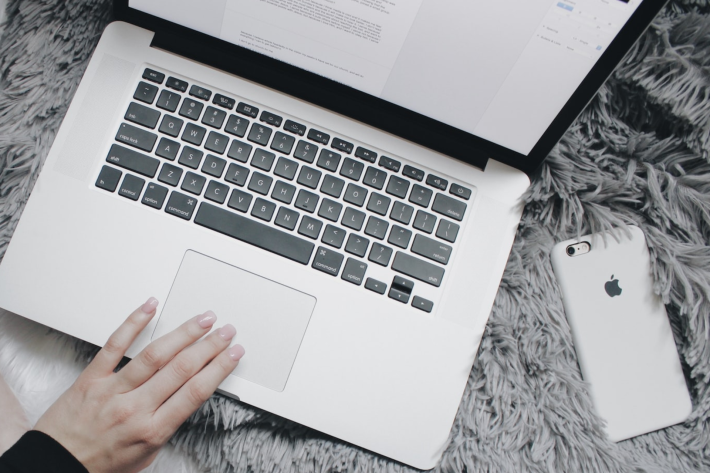
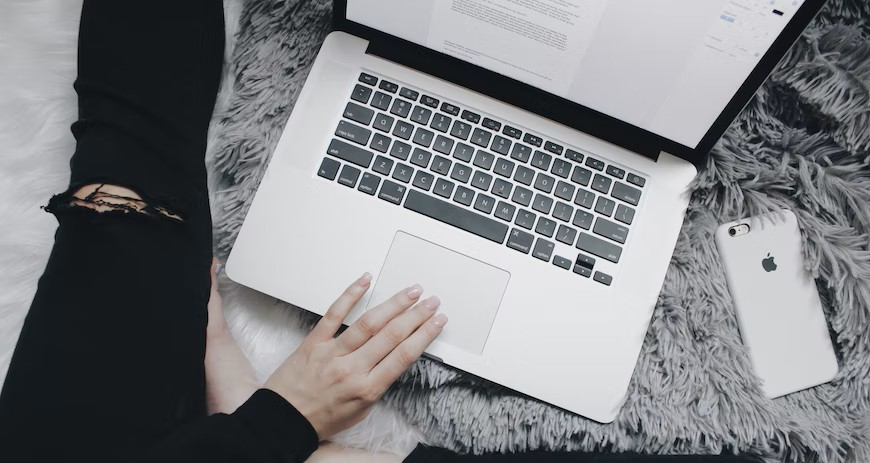
shyan color set and content complete

diff --git a/index.css b/index.css
@@ -8,11 +8,10 @@
 #mainimg
 {
     height: 171vh;
-    width: 77.5vw;
+    width: 106.5vw;
     position: absolute;
     top: 0;
-    right: 0;
-    /* z-index: 0; */
+    right: -401px;
 }
 body
 {
@@ -43,7 +42,7 @@ body
 {
     position: absolute;
     width: 100vw;
-    height: 196vh;
+    height: 194vh;
     background-image: linear-gradient(to right, rgb(255 120 62 / 69%) 60%, rgba(255, 255, 255, 0)40%);
     z-index: 1;
 }
@@ -79,6 +78,9 @@ body
     position: absolute;
     top: 5rem;
     right: 10rem;
+    width: 6rem;
+    color: white;
+    font-size: 4rem;
 }
 /* three logos */
 #logo1
@@ -139,7 +141,7 @@ body
     
     position: absolute;
     width: 100vw;
-    height: 151vh;
+    height: 182vh;
     background-image: linear-gradient(to left, rgb(100 159 155 / 55%) 50%, rgba(255, 255, 255, 0)50%);
     z-index: 1;
     top: 43rem;
@@ -154,3 +156,29 @@ body
     left: 2.8rem;
     height: 59rem;
 }
+#row2-h1
+{
+    font-size: 11rem;
+    color: white;
+    font-weight: 900;
+    position: absolute;
+    top: 26rem;
+    left: 29rem;
+}
+#row2-p1
+{
+    color: white;
+    width: 33.8rem;
+    font-size: 29px;
+    text-align: justify;
+    line-height: 2rem;
+    font-weight: 500;
+    direction: rtl;
+    position: absolute;
+    top: 38rem;
+    right: 5rem;
+    border-bottom: 5px solid blue;
+    height: 18rem;
+}
+
+/* li 2 */

diff --git a/index.html b/index.html
@@ -45,7 +45,13 @@
 
         <div class="row" id="row2">
             <div class="col-xl-6 col-lg-6 col-md-6 col-sm-6"></div>
-            <div class="col-xl-6 col-lg-6 col-md-6 col-sm-6"></div>
+            <div class="col-xl-6 col-lg-6 col-md-6 col-sm-6">
+                <h1 id="row2-h1">A</h1>
+                <p id="row2-p1">
+                    Id pro diam graece saperet,viris imperdiet splendide sit an.Sed causae ancillae placerat in,audiam audire maluisset ad mea.An ubique iracundia complecti- tur vel, per ex ubique aliquam re- cusabo. Stet sanctus blandit nec.<strong style="color: rgba(255, 255, 255, 0);">i</strong>
+                </p>
+                
+            </div>
         </div>
     
     <script src="./Bootstrap/js/bootstrap.bundle.min.js"></script>
